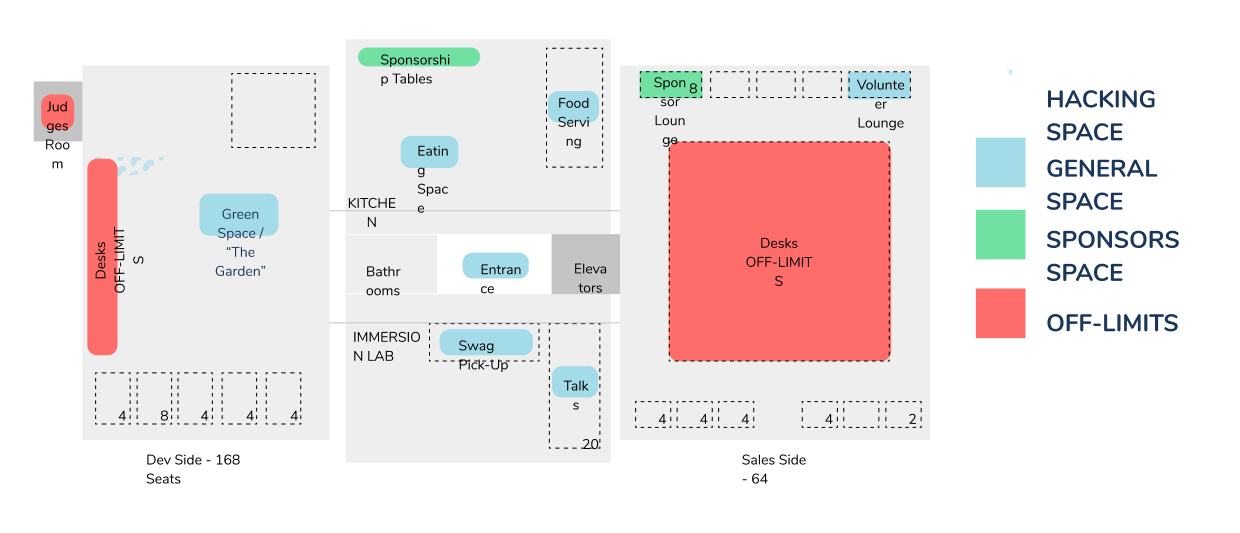
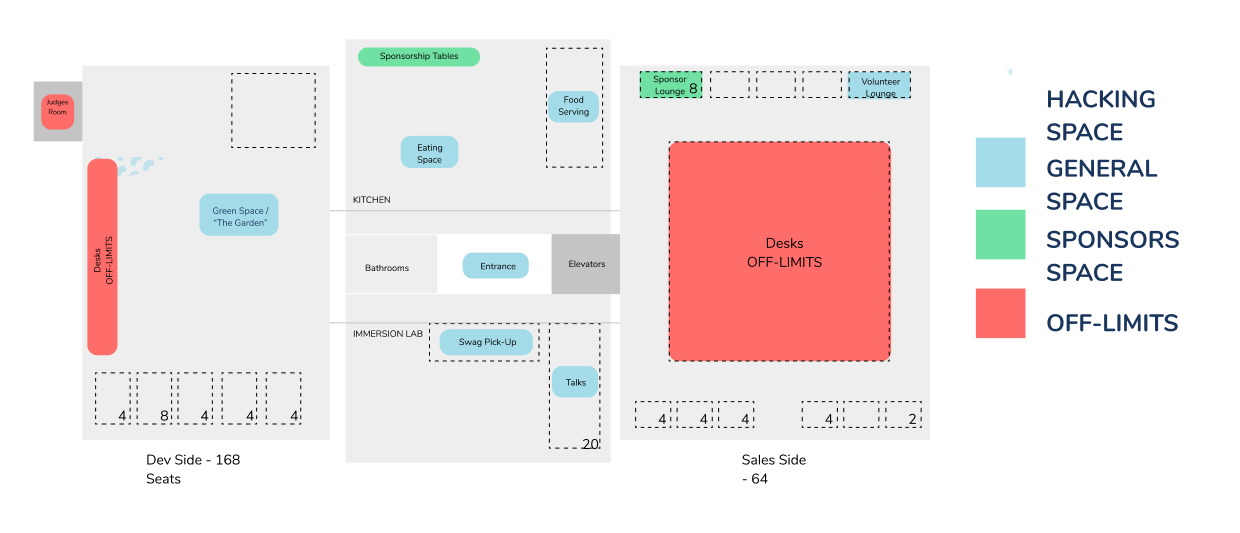
Update map png

diff --git a/css/maps.css b/css/maps.css
@@ -1,4 +1,4 @@
 .catalant-map {
-    width: 80%;
+    width: 90%;
     border-radius: 15px;
 }
